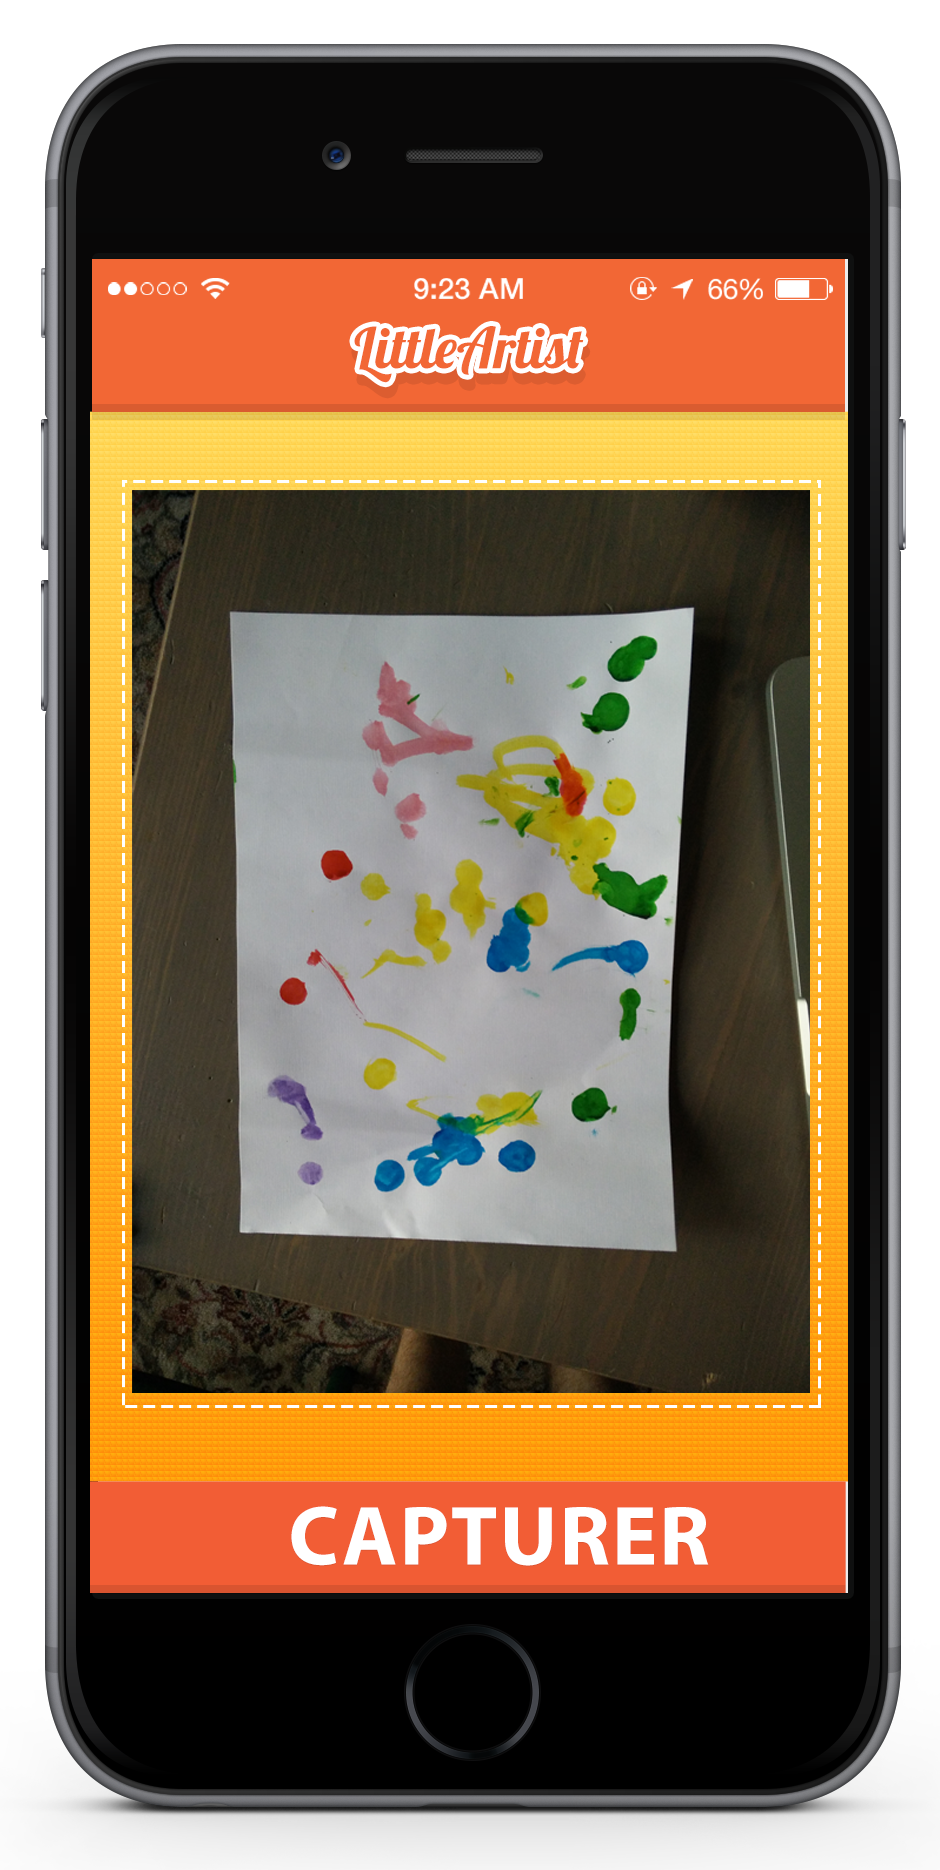
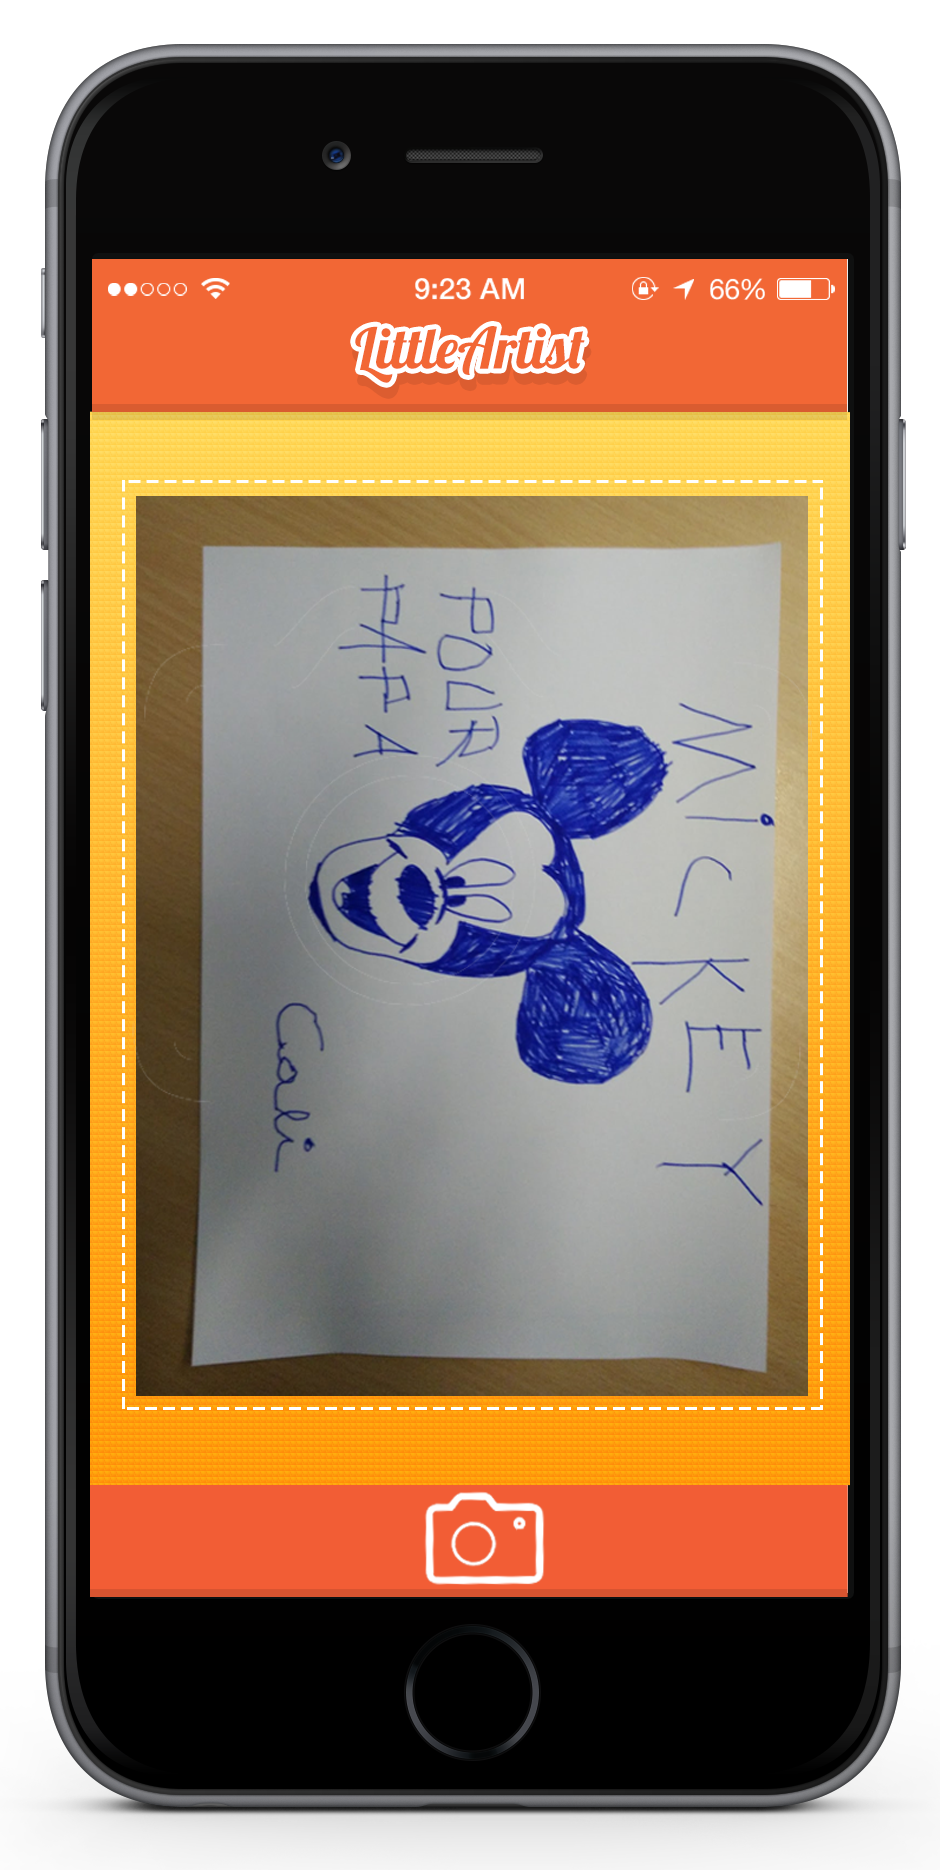
change pictures

diff --git a/index.html b/index.html
@@ -28,8 +28,8 @@
 			</div>
 			<div class="row">
 				<div class="col-md-4"><img src="photo_iphone.png" alt="" class="img-responsive"></div>
-				<div class="col-md-4"><img src="envoyer_iphone.png" alt="" class="img-responsive"></div>
-				<div class="col-md-4"><img src="recevoir_iphone.png" alt="" class="img-responsive"></div>
+				<div class="col-md-4"><img src="envoyer_grosseimages_iphone.png" alt="" class="img-responsive"></div>
+				<div class="col-md-4"><img src="recevoir_iphone_mickey.png" alt="" class="img-responsive"></div>
 			</div>
 			<div class="row">
 				<div class="col-md-12">
